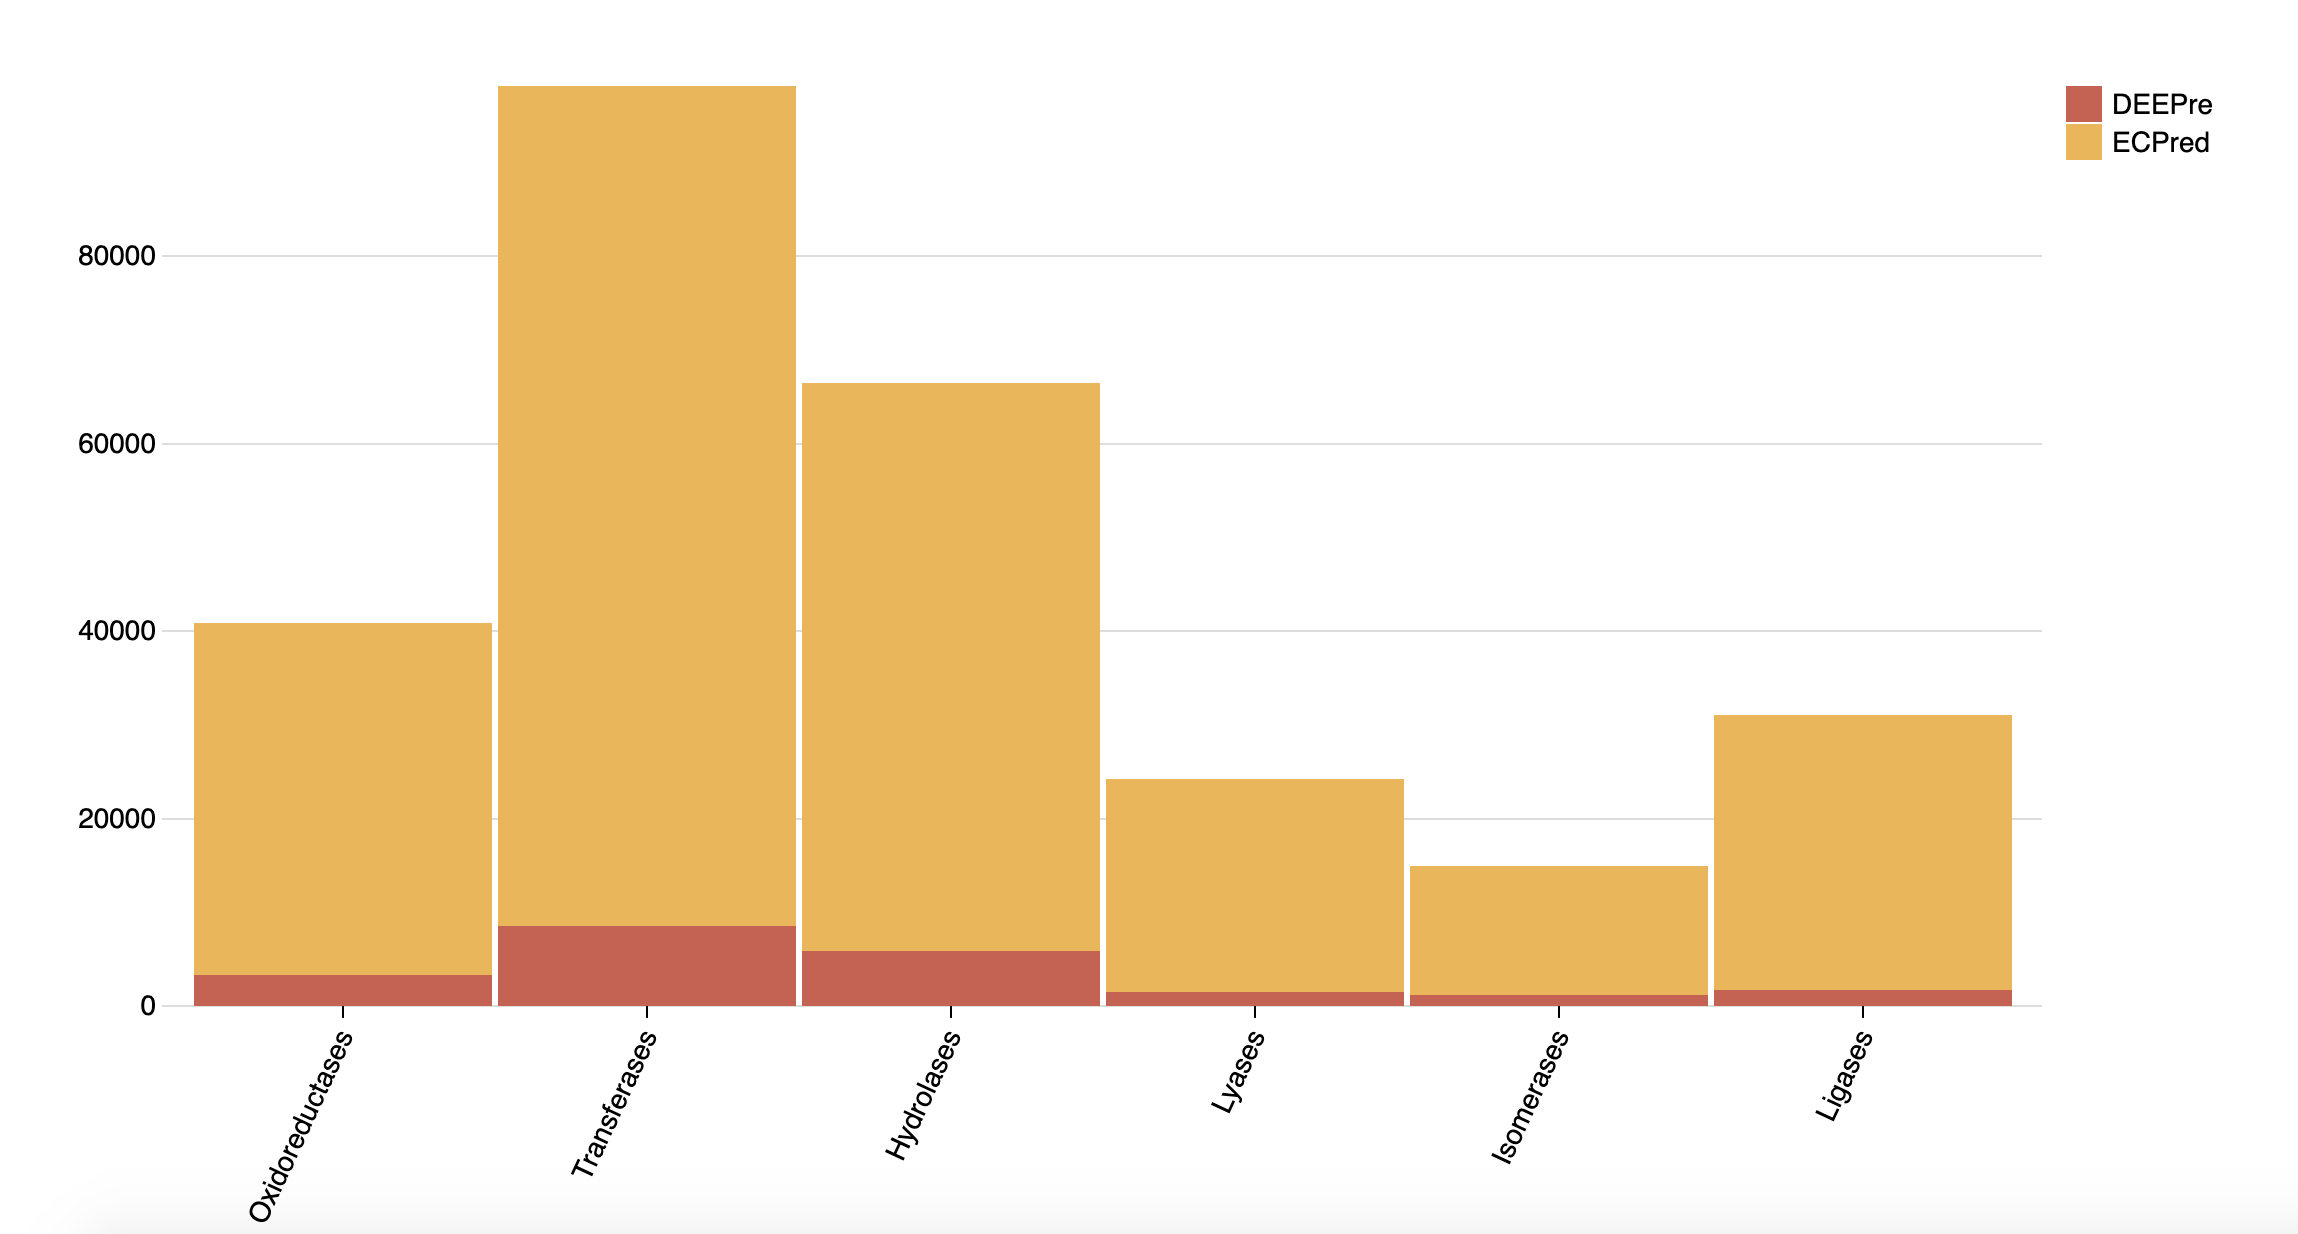
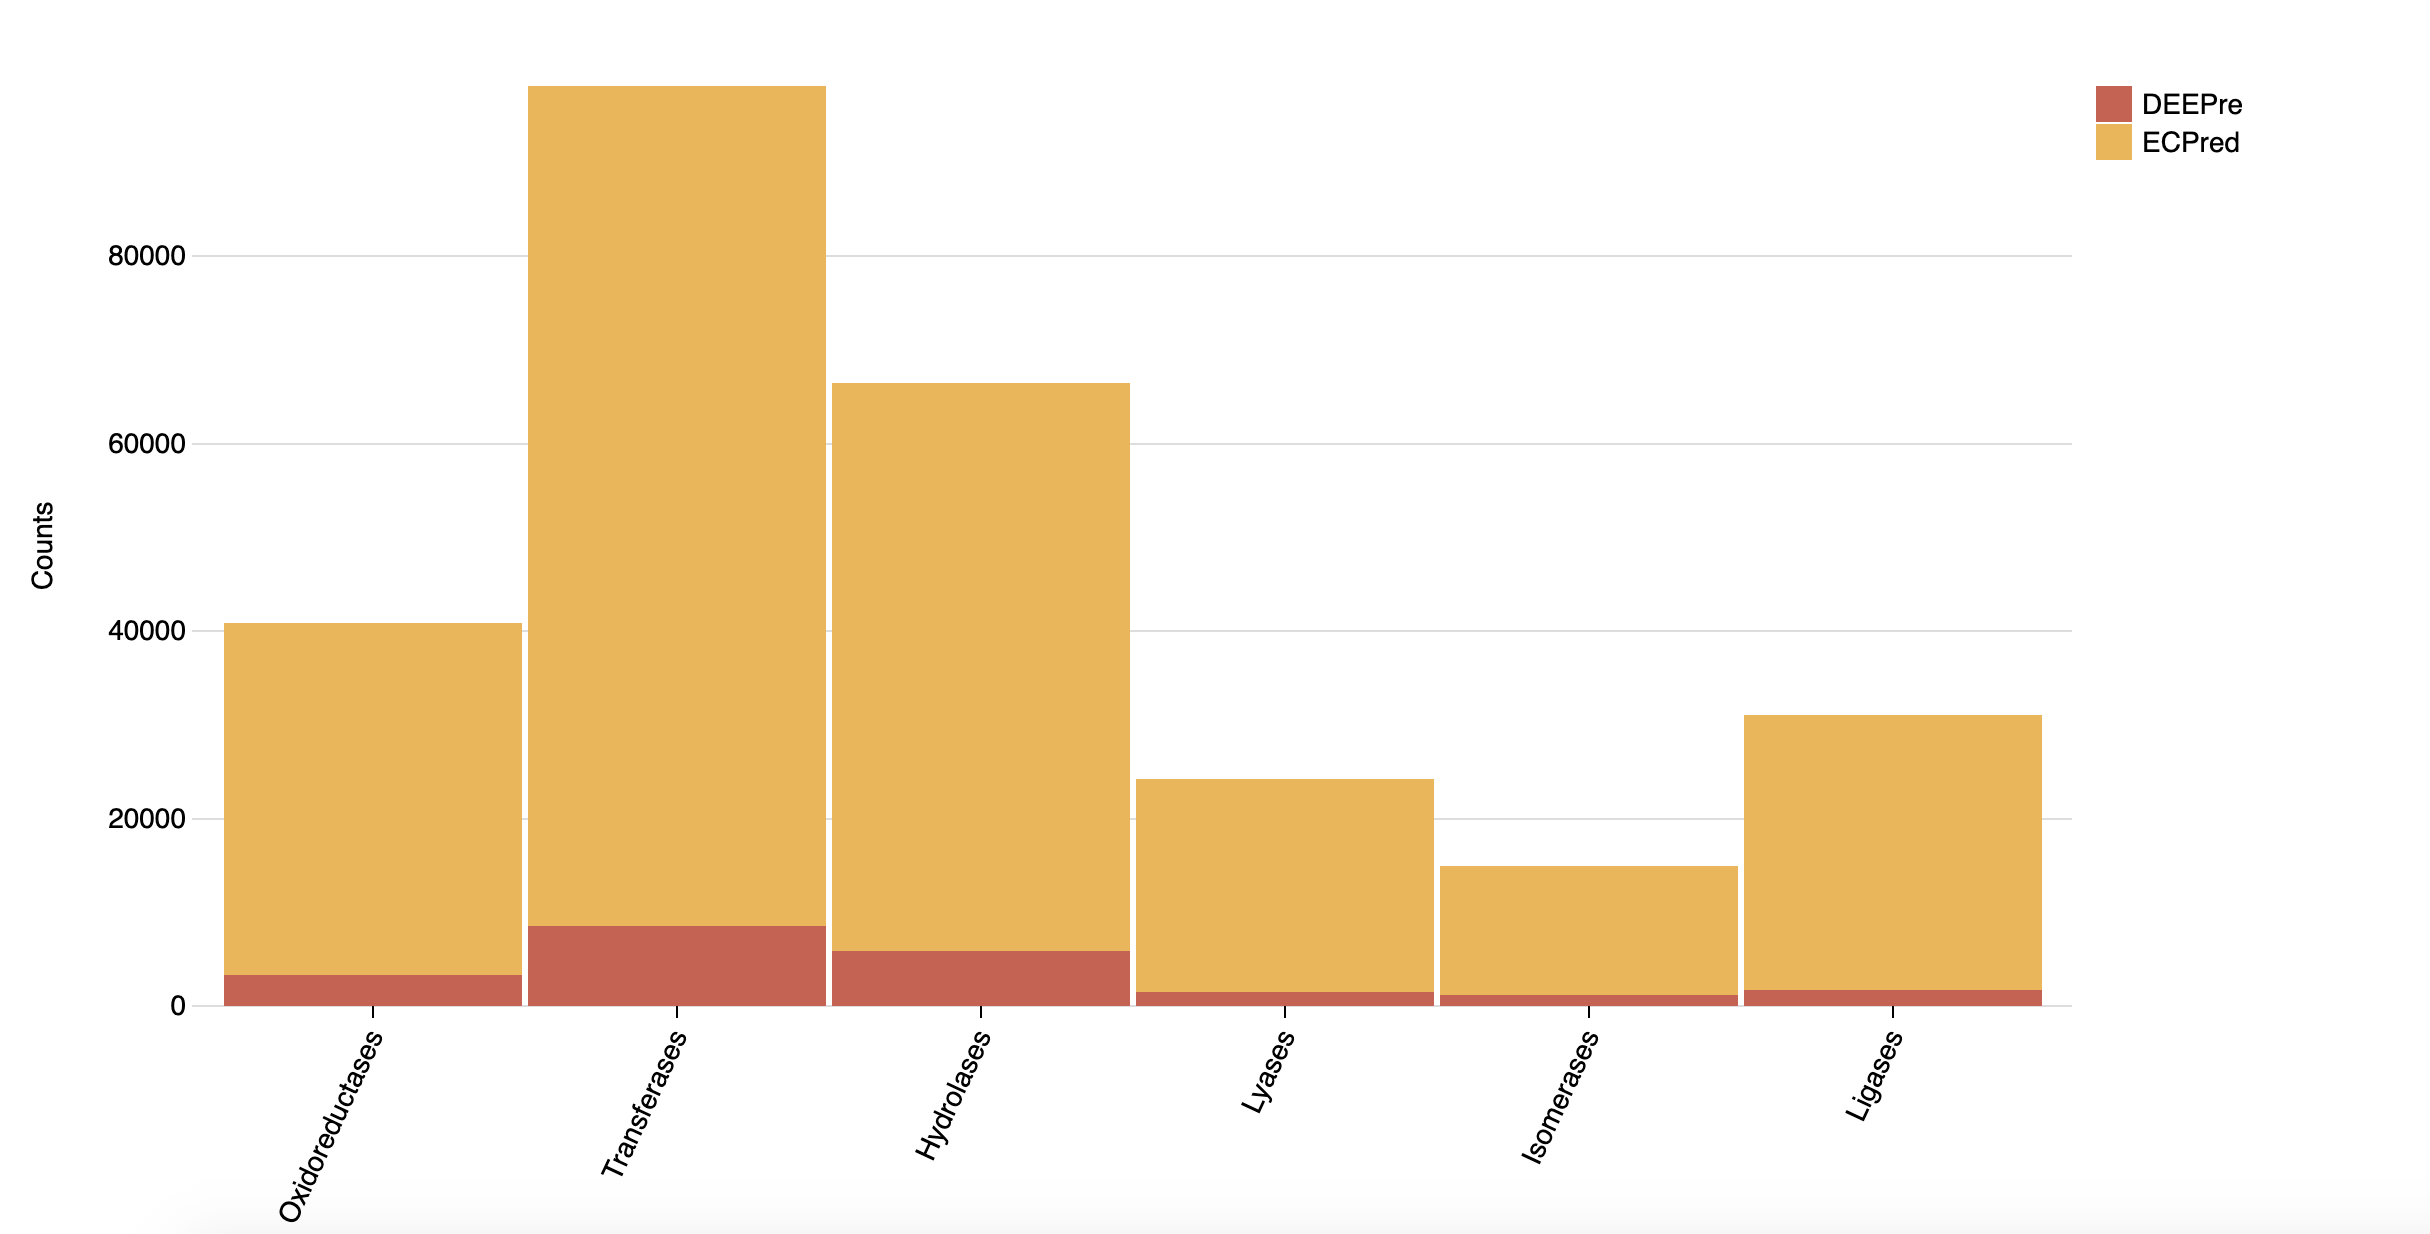
viz y labels

diff --git a/flask_enzyme/templates/viz.html b/flask_enzyme/templates/viz.html
@@ -36,7 +36,7 @@
           </div>
       </div>
     </nav>    
-    <div class="jumbotron" >
+    <div class="jumbotron text-center" >
       <h3>Enzyme Class Distribution from combined DEEPre and ECPred datasets</h3>
     </div> 
     <p style="text-align: center">
@@ -44,7 +44,7 @@
     <div class="container">
       <!-- Create a div where the graph will take place -->
      <div id="piechart_dataviz"></div>
-     <img src="./images/StackedBar.png" width="700" height="400"/>
+     <img src="/static/img/StackedBar.png" width="700" height="400"/>
      <br><br><br><br>
       <div id="selectMe"></div>
       <div id="chartContainer"></div>
@@ -285,7 +285,8 @@ frequency: 31022
     mainG
       .append("g")
       .call(xAxis)
-      .attr("transform", `translate(0, ${innerHeight})`);
+      .attr("transform", `translate(0, ${innerHeight})`)
+      .attr("font-size", "18px");
     
     mainG
       .append("g")
